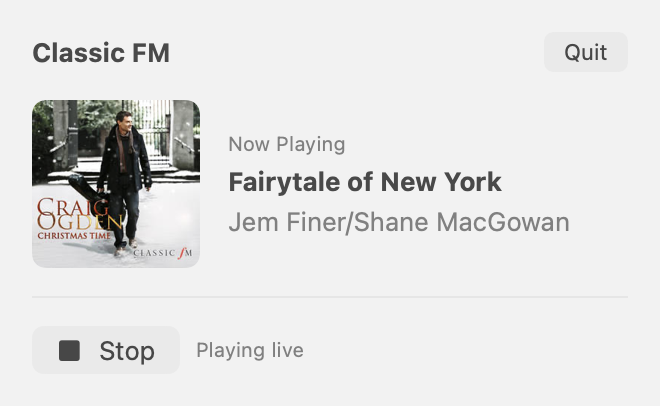
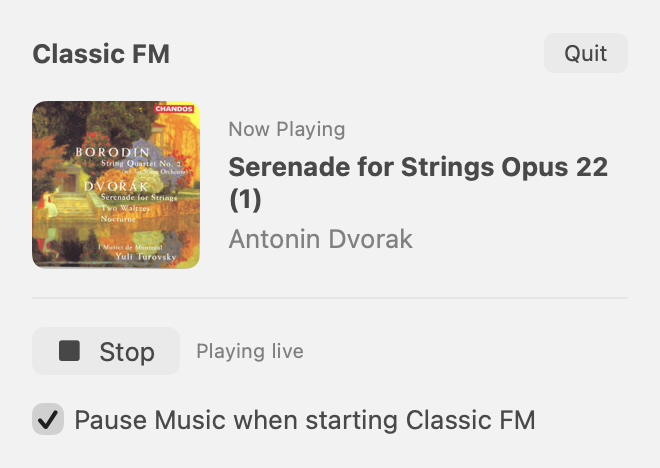
Coordinate radio playback with the Mac Music app

diff --git a/Sources/Radio.swift b/Sources/Radio.swift
@@ -1,3 +1,4 @@
+import AppKit
 import AVFoundation
 import Combine
 import OSLog
@@ -11,6 +12,32 @@ final class Radio: ObservableObject {
             if oldValue != status { log.info("\(self.status, privacy: .public)") }
         }
     }
+    @Published private(set) var musicNotice: String?
+    @Published var pauseMusic: Bool {
+        didSet {
+            UserDefaults.standard.set(pauseMusic, forKey: MusicPlayback.preferenceKey)
+            if !pauseMusic {
+                musicNotice = nil
+                if pendingStart != nil {
+                    pendingStart?.cancel()
+                    pendingStart = nil
+                    startStream()
+                }
+            }
+        }
+    }
+    private var musicPlayback: MusicPlayback?
+    private var pendingStart: Task<Void, Never>?
+
+    init() {
+        UserDefaults.standard.register(defaults: [MusicPlayback.preferenceKey: true])
+        pauseMusic = UserDefaults.standard.bool(forKey: MusicPlayback.preferenceKey)
+        musicPlayback = MusicPlayback { [weak self] in
+            guard let self, self.active else { return }
+            self.stop("Stopped because Music started")
+        }
+    }
+
     private var player: AVPlayer?
     private var observations: [NSKeyValueObservation] = []
     private var endObservers: [NSObjectProtocol] = []
@@ -20,10 +47,31 @@ final class Radio: ObservableObject {
             stop("Stopped")
             return
         }
+        active = true
+        musicNotice = nil
+        guard pauseMusic, let music = NSRunningApplication.runningApplications(withBundleIdentifier: "com.apple.Music").first else {
+            startStream()
+            return
+        }
+        status = "Switching from Music…"
+        pendingStart = Task {
+            do {
+                try Task.checkCancellation()
+                try await MusicPlayback.pause(music)
+            } catch {
+                guard !Task.isCancelled else { return }
+                musicNotice = "Couldn’t pause Music. You can pause it manually."
+            }
+            guard !Task.isCancelled else { return }
+            pendingStart = nil
+            startStream()
+        }
+    }
+
+    private func startStream() {
         let item = AVPlayerItem(url: URL(string: "https://media-ssl.musicradio.com/ClassicFMMP3")!)
         let next = AVPlayer(playerItem: item)
         player = next
-        active = true
         status = "Connecting…"
         observations = [
             next.observe(\.timeControlStatus, options: [.new]) { [weak self, weak next] _, _ in
@@ -51,6 +99,9 @@ final class Radio: ObservableObject {
     }
 
     private func stop(_ message: String) {
+        pendingStart?.cancel()
+        pendingStart = nil
+        musicNotice = nil
         observations.removeAll()
         endObservers.forEach(NotificationCenter.default.removeObserver)
         endObservers.removeAll()

diff --git a/Sources/MusicPlayback.swift b/Sources/MusicPlayback.swift
@@ -1,0 +1,55 @@
+import AppKit
+import Carbon
+
+@MainActor
+final class MusicPlayback {
+    static let preferenceKey = "pauseMusicWhenStartingClassicFM"
+    private var playbackObserver: NSObjectProtocol?
+    private var terminationObserver: NSObjectProtocol?
+    private var wasPlaying = false
+
+    init(onStart: @escaping @MainActor () -> Void) {
+        let center = DistributedNotificationCenter.default()
+        let name = Notification.Name("com.apple.Music.playerInfo")
+        playbackObserver = center.addObserver(forName: name, object: nil, queue: .main) { [weak self] note in
+            MainActor.assumeIsolated {
+                guard let self, let state = note.userInfo?["Player State"] as? String else { return }
+                let playing = state == "Playing"
+                if playing && !self.wasPlaying { onStart() }
+                self.wasPlaying = playing
+            }
+        }
+        terminationObserver = NSWorkspace.shared.notificationCenter.addObserver(
+            forName: NSWorkspace.didTerminateApplicationNotification, object: nil, queue: .main
+        ) { [weak self] note in
+            MainActor.assumeIsolated {
+                let app = note.userInfo?[NSWorkspace.applicationUserInfoKey] as? NSRunningApplication
+                if app?.bundleIdentifier == "com.apple.Music" { self?.wasPlaying = false }
+            }
+        }
+    }
+
+    deinit {
+        if let playbackObserver { DistributedNotificationCenter.default().removeObserver(playbackObserver) }
+        if let terminationObserver { NSWorkspace.shared.notificationCenter.removeObserver(terminationObserver) }
+    }
+
+    // Address the running process so a handoff can never launch Music.
+    static func pause(_ app: NSRunningApplication) async throws {
+        let pid = app.processIdentifier
+        // Music.sdef defines its pause command as the Apple event 'hook'/'Paus'.
+        let eventClass: AEEventClass = 0x686F6F6B
+        let eventID: AEEventID = 0x50617573
+        let permission = await Task.detached {
+            let target = NSAppleEventDescriptor(processIdentifier: pid)
+            return AEDeterminePermissionToAutomateTarget(target.aeDesc, eventClass, eventID, true)
+        }.value
+        try Task.checkCancellation()
+        guard !app.isTerminated else { return }
+        guard permission == noErr else { throw NSError(domain: NSOSStatusErrorDomain, code: Int(permission)) }
+        let event = NSAppleEventDescriptor(eventClass: eventClass, eventID: eventID,
+                                           targetDescriptor: NSAppleEventDescriptor(processIdentifier: pid),
+                                           returnID: AEReturnID(kAutoGenerateReturnID), transactionID: AETransactionID(kAnyTransactionID))
+        _ = try event.sendEvent(options: [.noReply, .neverInteract], timeout: 1)
+    }
+}

diff --git a/Sources/Popover.swift b/Sources/Popover.swift
@@ -39,6 +39,11 @@ struct PlayerPopover: View {
                 }
                 Text(radio.status).font(.caption).foregroundStyle(.secondary)
             }
+            Toggle("Pause Music when starting Classic FM", isOn: $radio.pauseMusic)
+                .toggleStyle(.checkbox)
+            if let notice = radio.musicNotice {
+                Text(notice).font(.caption).foregroundStyle(.secondary)
+            }
         }
         .padding(16).frame(width: 330)
         .task(id: visible) {

diff --git a/README.md b/README.md
@@ -6,7 +6,7 @@ An unofficial macOS menu bar app for streaming Classic FM live, with now-playing
 
 Click **▶** in the menu bar to play. Click **■** to stop. Each new session starts at the live broadcast. Click **FM ▾** for the piece, composer, cover artwork and playback status. The popover also has a Quit button.
 
-<img src="docs/images/now-playing.png" width="330" alt="Classic FM popover playing Fairytale of New York, with composer credits, album artwork and a Stop button">
+<img src="docs/images/now-playing.png" width="330" alt="Classic FM playing Dvořák’s Serenade for Strings, with album artwork and the pause-Music checkbox enabled">
 
 ## Build and run
 
@@ -26,6 +26,14 @@ Add a **System → Open** action to a key. Choose **Toggle Classic FM.app** as t
 ```sh
 open -g -b com.robmarkcole.classic-fm-menubar classicfmradio://toggle
 ```
+
+## Switching between Music and Classic FM
+
+Start playback in the Mac’s Music app and Classic FM stops, even while the radio is buffering. Pausing or quitting Music leaves the radio stopped until you press Play again.
+
+Starting Classic FM from the menu bar, popover or Stream Deck asks Music to pause if it is running. **Pause Music when starting Classic FM** is on by default. Uncheck it in the **FM ▾** popover to leave Music alone when starting the radio. Your choice is saved across launches.
+
+macOS may ask for Automation access the first time Classic FM tries to pause Music. If you decline, the radio still plays and you can pause Music yourself. You can change access later in **System Settings → Privacy & Security → Automation**.
 
 ## Audio and track information
 
